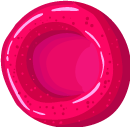
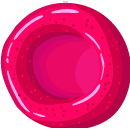
Update Tile textures

diff --git a/GameForestMatch3/Scenes/GameScene.cs b/GameForestMatch3/Scenes/GameScene.cs
@@ -14,7 +14,7 @@ namespace GameForestMatch3.Scenes
         private readonly BoardView _boardView;
         private readonly Vector2 _scorePosition = new Vector2(25, 25);
         private readonly Vector2 _timerPosition = new Vector2(25, 100);
-        private readonly Vector2 _boardPosition = new Vector2(440, 25);
+        private readonly Vector2 _boardPosition = new Vector2(440, 15);
         private readonly Timer _timer;
         private int _score;
 

diff --git a/GameForestMatch3/Tiles/TileView.cs b/GameForestMatch3/Tiles/TileView.cs
@@ -5,7 +5,7 @@ namespace GameForestMatch3.Tiles
 {
     public class TileView
     {
-        public static Vector2 TextureSize { get; } = new Vector2(130, 124); // Size of texture.
+        public static Vector2 TextureSize { get; } = new Vector2(132, 132); // Size of texture.
         public Texture2D Texture { get; set; }
         public Vector2 Position { get; set; }
         public Tile Tile { get; set; }
